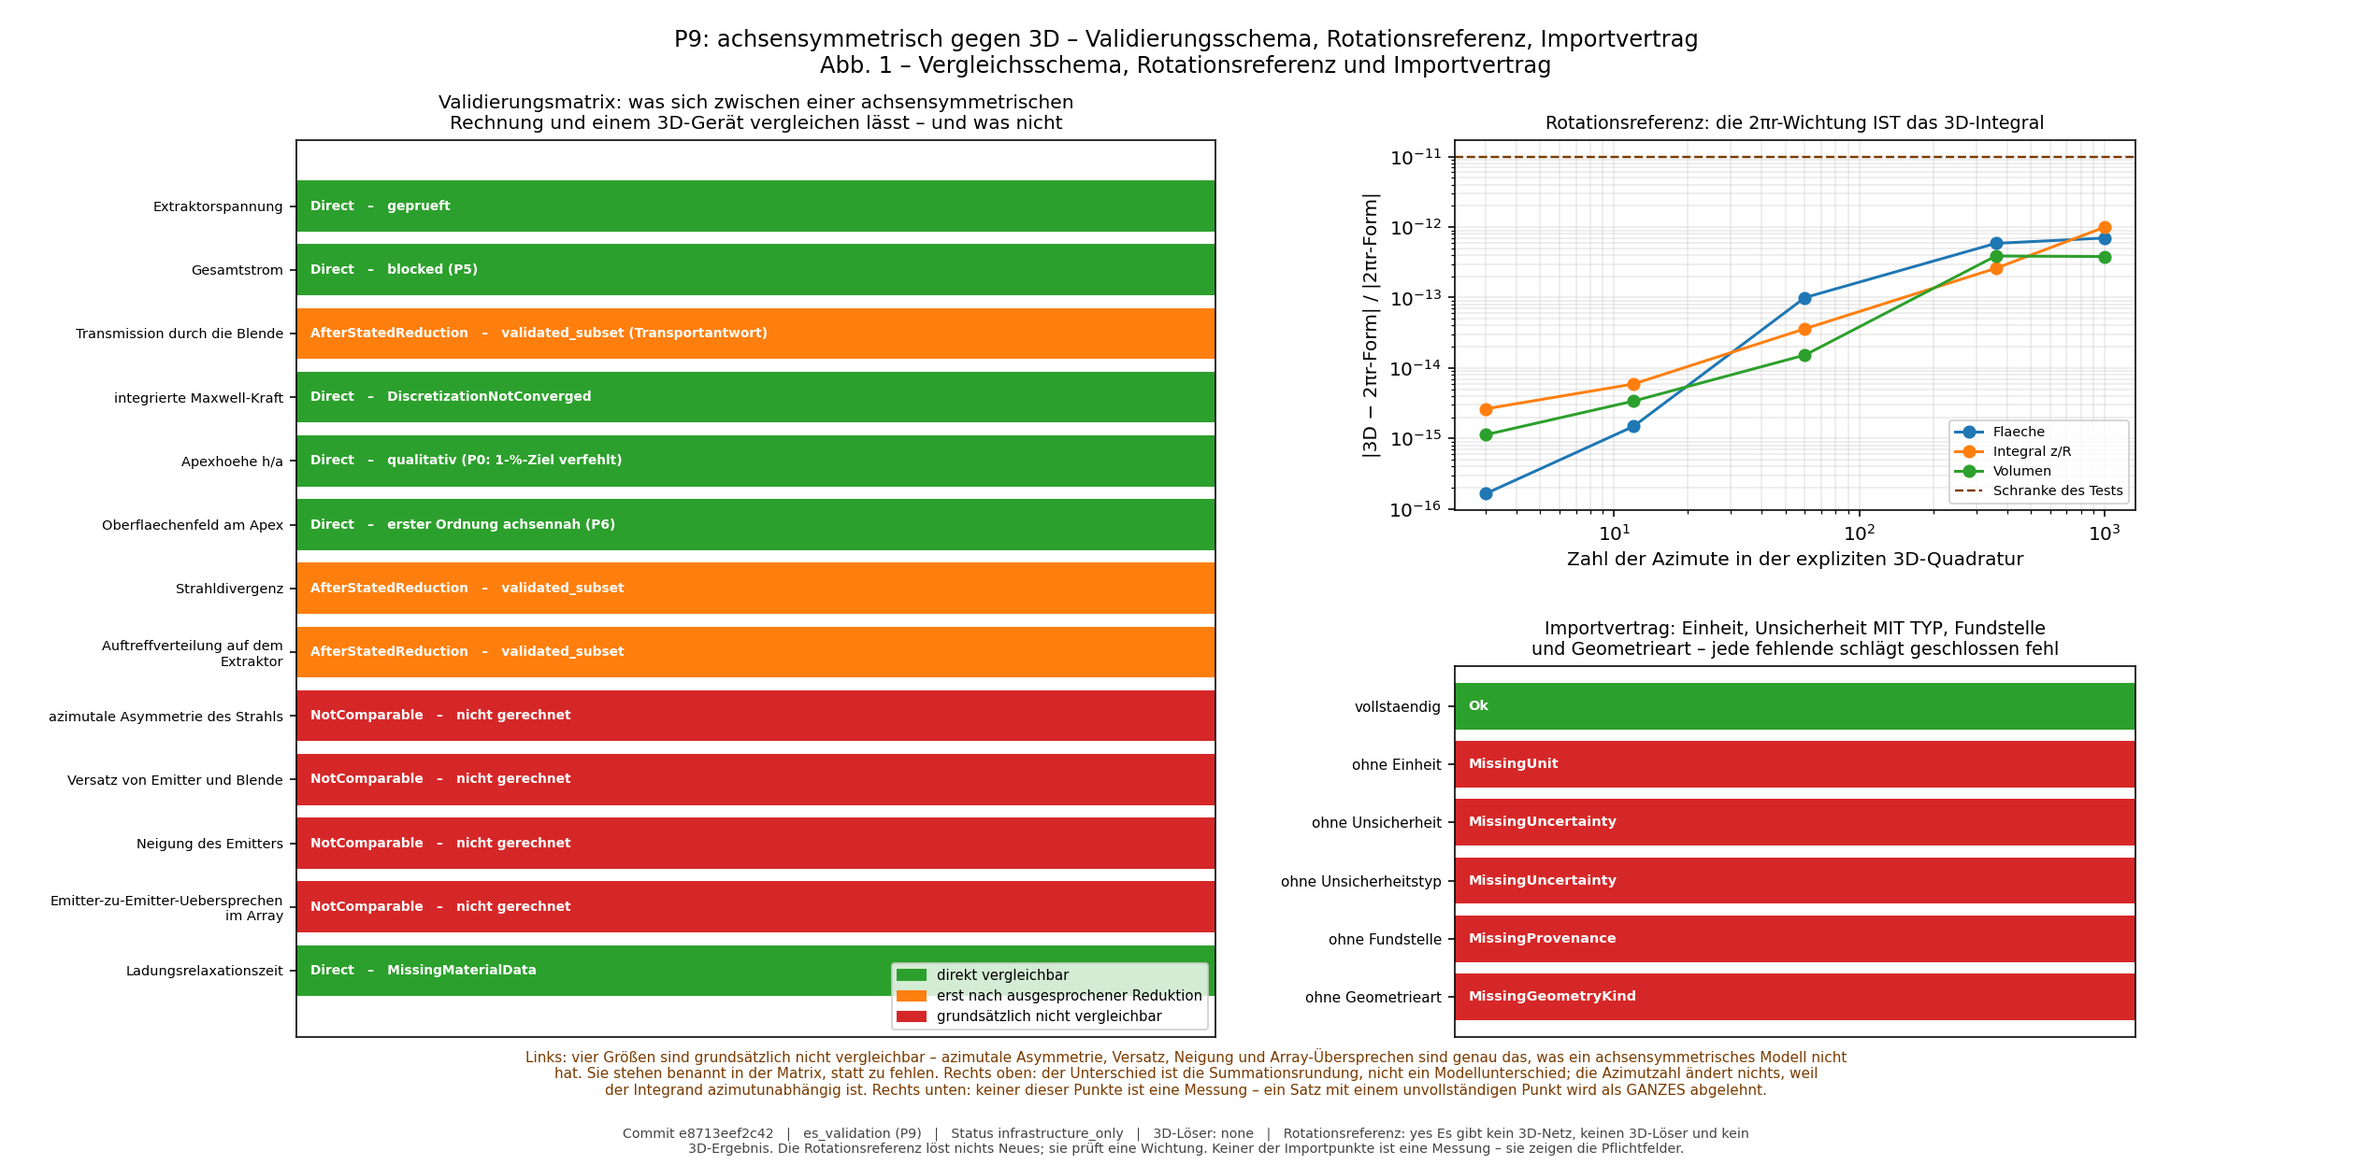
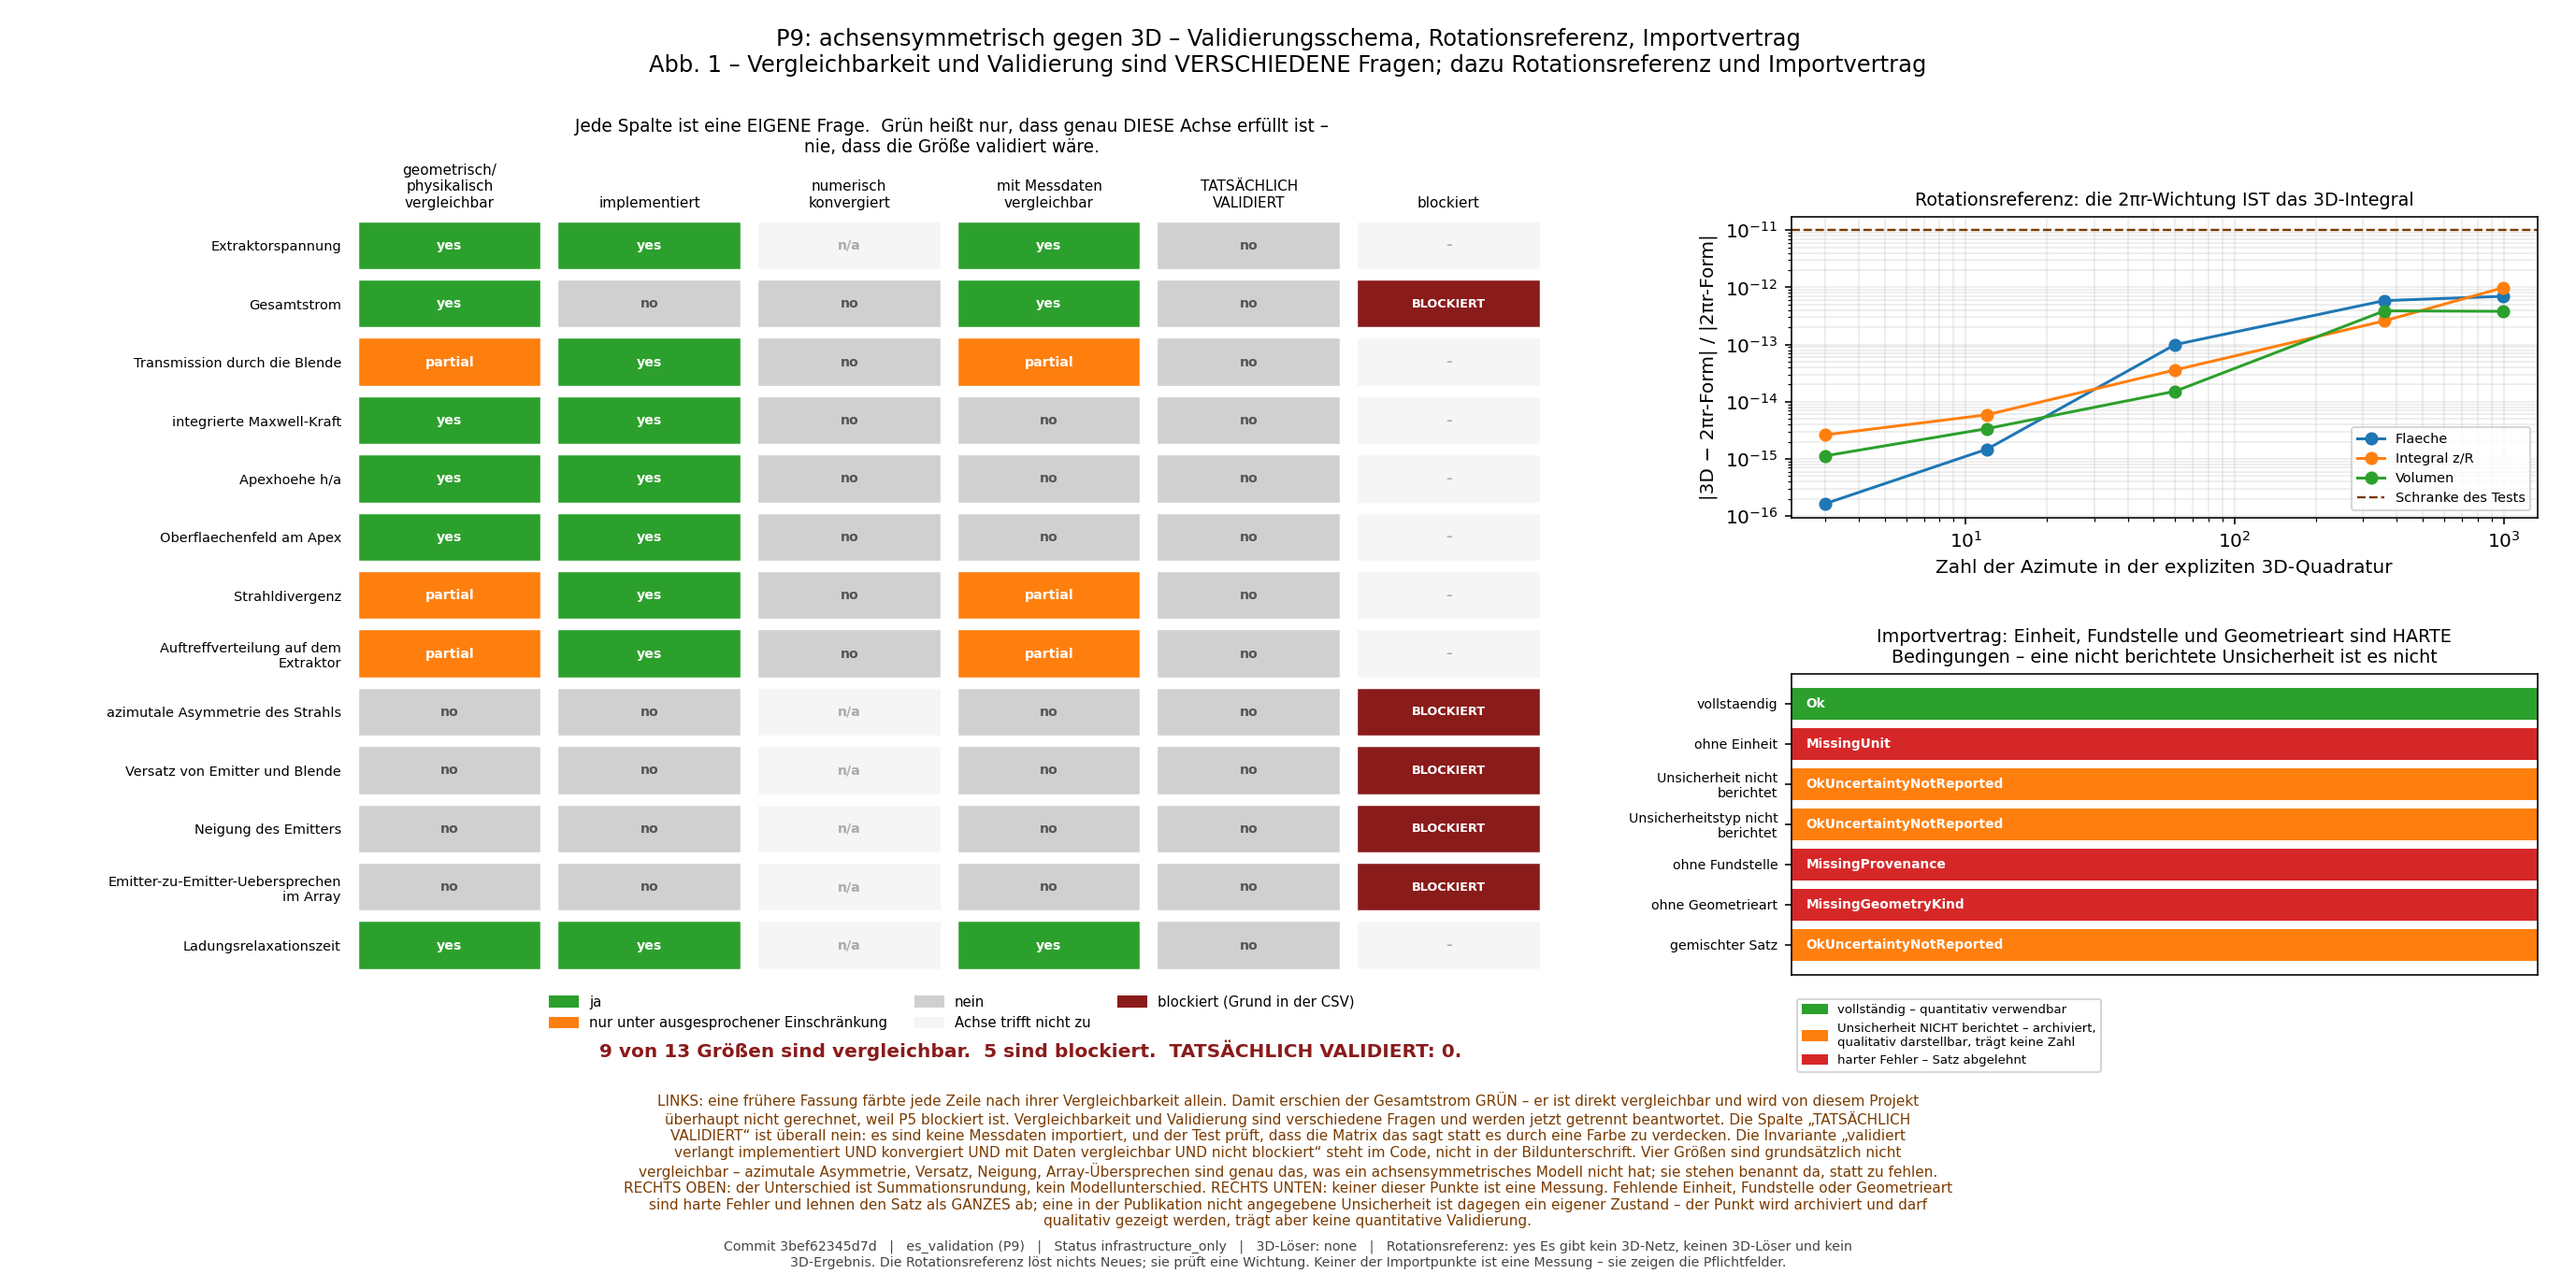
P9-Korrektur-Artefakte, erzeugt aus 3bef623 bei sauberem Arbeitsbaum
./build/es_validation results/2026-08-29_p9_validation meta.commit=$(git rev-parse HEAD)
  python python/plot_validation.py results/2026-08-29_p9_validation

figures_provenance.txt weist releasable=yes, working_tree_dirty=no und den
Code-Commit aus.

validation_matrix.csv fuehrt jetzt alle sechs Achsen je Groesse, den
Blockergrund und je einen Satz zu Konvergenz und Validierung statt einer
einzigen Vergleichbarkeitsspalte.  Neu: validation_tally.csv, das zaehlt, wie
viele Zeilen jede Achse erreichen -- vergleichbar 9, implementiert 8,
konvergiert 0, mit Daten vergleichbar 6, VALIDIERT 0, blockiert 5 von 13.

import_contract.csv fuehrt drei Ausgaenge statt zweier (vollstaendig,
archiviert-ohne-Unsicherheit, harter Fehler) und einen gemischten Satz als
eigenen Fall.

Die Abbildung ist neu aufgebaut: eine Spalte je Achse, eine Blockiert-Spalte
NEBEN den anderen, und eine Legende, in der gruen ausdruecklich nur "diese eine
Achse ist erfuellt" heisst.  Der Gesamtstrom, der in der alten einachsigen Karte
gruen erschien, steht jetzt sichtbar als direkt vergleichbar, nicht
implementiert, nicht validiert und blockiert.

Claude-Session: https://claude.ai/code/session_01Hozq9yjzymoyEZTS8x1Eos

diff --git a/results/2026-08-29_p9_validation/README.md b/results/2026-08-29_p9_validation/README.md
@@ -43,26 +43,94 @@ nichts Neues geloest, es wird eine Wichtung geprueft.
 
 ## Der Importvertrag
 
-Einheit, Unsicherheit MIT TYP (GUM A oder B), Fundstelle und Geometrieart sind
-Pflicht; dazu Ueberdeckungsfaktor und Bedingungen. Jede fehlende Angabe schlaegt
-geschlossen fehl, und ein Satz mit einem unvollstaendigen Punkt wird als GANZES
-abgelehnt -- einen Punkt wegzulassen waere ein Vergleich mit einem anderen
-Datensatz.
+**Harte Bedingungen** -- eine fehlende schlaegt geschlossen fehl und lehnt den
+Satz als GANZES ab, denn einen Punkt wegzulassen waere ein Vergleich mit einem
+anderen Datensatz:
+
+| Feld | fehlt → |
+|---|---|
+| `unit` | `MissingUnit` |
+| `provenance` | `MissingProvenance` |
+| `geometry_stated` | `MissingGeometryKind` |
+| zwei Einheiten fuer dieselbe Groesse | `UnitMismatch` |
+
+**Eine nicht angegebene Unsicherheit ist KEINE davon.** Eine fruehere Fassung
+behandelte sie wie eine fehlende Einheit und warf damit echte Messungen weg. Die
+beiden Faelle sind nicht dasselbe: eine fehlende Einheit macht die Zahl
+unlesbar; eine fehlende Unsicherheit macht sie unbrauchbar fuer einen
+*quantitativen* Vergleich -- die Messung selbst existiert aber, ist zitierbar und
+traegt eine Aussage.
+
+Dafuer gibt es den ausdruecklichen Zustand `UncertaintyType::NotReported` und
+den Importstatus `ImportStatus::OkUncertaintyNotReported`:
+
+* der Punkt wird **importiert und archiviert**;
+* er darf **qualitativ dargestellt** werden, mit sichtbarem Status;
+* `usable_quantitatively()` ist fuer ihn **falsch** -- jede Abweichung, jedes
+  Chi-Quadrat und jedes Bestanden/Durchgefallen muss genau das abfragen.
+
+Ein **gemischter Satz** bleibt ganz: `n_quantitative` und `n_qualitative_only`
+werden getrennt gezaehlt, und jeder Punkt traegt seinen eigenen Status.
 
 **Keiner der Punkte in `import_contract.csv` ist eine Messung.** Sie fuehren den
 Vertrag vor.
 
-## Die Validierungsmatrix
+## Die Validierungsmatrix: sechs Fragen, nicht eine
 
-13 Groessen: **6 direkt vergleichbar**, **3 erst nach ausgesprochener
-Reduktion**, **4 grundsaetzlich nicht** -- azimutale Asymmetrie, Versatz von
-Emitter und Blende, Neigung des Emitters, Array-Uebersprechen. Diese vier sind
-genau das, was ein achsensymmetrisches Modell nicht hat; sie stehen benannt in
-der Matrix statt zu fehlen, und sie sind die Antwort auf die Frage, wofuer ein
-3D-Loeser gebraucht wuerde.
+**Was daran falsch war.** Die fruehere Matrix trug *eine* Vergleichbarkeit je
+Zeile, und die Abbildung faerbte die Zeile danach. Eine Groesse, die im Prinzip
+vergleichbar, aber blockiert oder nicht konvergiert ist, erschien damit **gruen**
+-- und gruen liest sich als Erfolg. Der klarste Fall ist der **Gesamtstrom**:
+direkt vergleichbar, und von diesem Projekt ueberhaupt nicht rechenbar, weil P5
+blockiert ist.
 
-Von den 13 rechnet dieses Projekt 8 -- und **keine davon traegt den Status
-"validiert"**.
+Jede Zeile traegt jetzt **sechs unabhaengige Urteile** (`yes` / `partial` /
+`no` / `n/a`):
+
+| Achse | Frage |
+|---|---|
+| `comparable_geometry` | laesst sich die Groesse zwischen achsensymmetrisch und 3D ueberhaupt vergleichen? |
+| `implemented` | rechnet dieses Projekt sie? |
+| `converged` | ist das Ergebnis nach einem **vorab** festgelegten Kriterium konvergiert? |
+| `comparable_with_data` | liesse sie sich mit einer Messung vergleichen? |
+| `validated` | ist sie **tatsaechlich** verglichen worden und hat innerhalb der angegebenen Unsicherheiten uebereingestimmt? |
+| `blocked` + Grund | ist sie blockiert, und wodurch? |
+
+In der Abbildung heisst gruen nur, dass **genau diese eine Achse** erfuellt ist.
+Die Blockiert-Spalte steht **neben** den anderen, nicht statt ihrer.
+
+**Die Invariante steht im Code**: `validated=yes` verlangt `implemented=yes` UND
+`converged` in {yes, n/a} UND `comparable_with_data=yes` UND nicht blockiert;
+und blockiert genau dann, wenn ein Grund genannt ist. Der Test baut zusaetzlich
+von Hand Zeilen, die sie verletzen, und prueft, dass sie abgefangen werden.
+
+### Was dabei herauskommt
+
+| Achse | von 13 erreicht |
+|---|---|
+| vergleichbar (ganz oder nach Reduktion) | **9** |
+| implementiert | **8** |
+| numerisch konvergiert | **0** |
+| mit Messdaten vergleichbar | **6** |
+| **tatsaechlich validiert** | **0** |
+| blockiert | **5** |
+
+**Der Abstand zwischen der ersten und der vorletzten Zahl ist der ganze Punkt
+dieser Tabelle.** Dass nichts validiert ist, ist eine **gepruefte** Aussage: es
+sind ueberhaupt keine Messdaten importiert, und der Lauf setzt `exit_code=2`,
+sobald eine Zeile etwas anderes behauptet.
+
+Die **vier grundsaetzlich nicht vergleichbaren** Groessen -- azimutale
+Asymmetrie, Versatz von Emitter und Blende, Neigung des Emitters,
+Array-Uebersprechen -- sind genau das, was ein achsensymmetrisches Modell nicht
+hat. Sie stehen benannt in der Matrix statt zu fehlen, und sie sind die Antwort
+auf die Frage, wofuer ein 3D-Loeser gebraucht wuerde.
+
+Jede Zeile traegt ausserdem je einen Satz zu Konvergenz und Validierung statt
+einer Farbe. **Eine Zeile hat sich durch die P3-Korrektur geaendert:** die
+Ladungsrelaxationszeit stand als `MissingMaterialData` und steht jetzt als
+„Band belegt, Einzelwert fehlt" -- implementiert, geschlossen loesbar, mit
+Messdaten vergleichbar, und weiterhin **nicht validiert**.
 
 ## Kunze-Geometrien und Messdaten
 
@@ -76,4 +144,12 @@ die dieser Lauf nicht geleistet hat. Das Schema steht bereit; die Daten fehlen.
 
 | Datei | Inhalt |
 |---|---|
-| `fig1_validation.png` | die Validierungsmatrix nach Vergleichbarkeit, die Rotationsreferenz ueber der Azimutzahl, und der Importvertrag an einem absichtlich unvollstaendigen Beispielsatz |
+| `fig1_validation.png` | die Validierungsmatrix mit einer Spalte je Achse und einer eindeutigen Legende, die Rotationsreferenz ueber der Azimutzahl, und der Importvertrag mit seinen drei Ausgaengen |
+
+## Dateien
+
+`validation_matrix.csv` -- alle sechs Achsen je Groesse, der Blockergrund und je
+ein Satz zu Konvergenz und Validierung. `validation_tally.csv` -- wie viele
+Zeilen jede Achse erreichen; die vorletzte Zahl ist null.
+`import_contract.csv` -- die drei Ausgaenge des Vertrags und ein gemischter Satz.
+`revolution.csv` -- die Rotationsreferenz.
